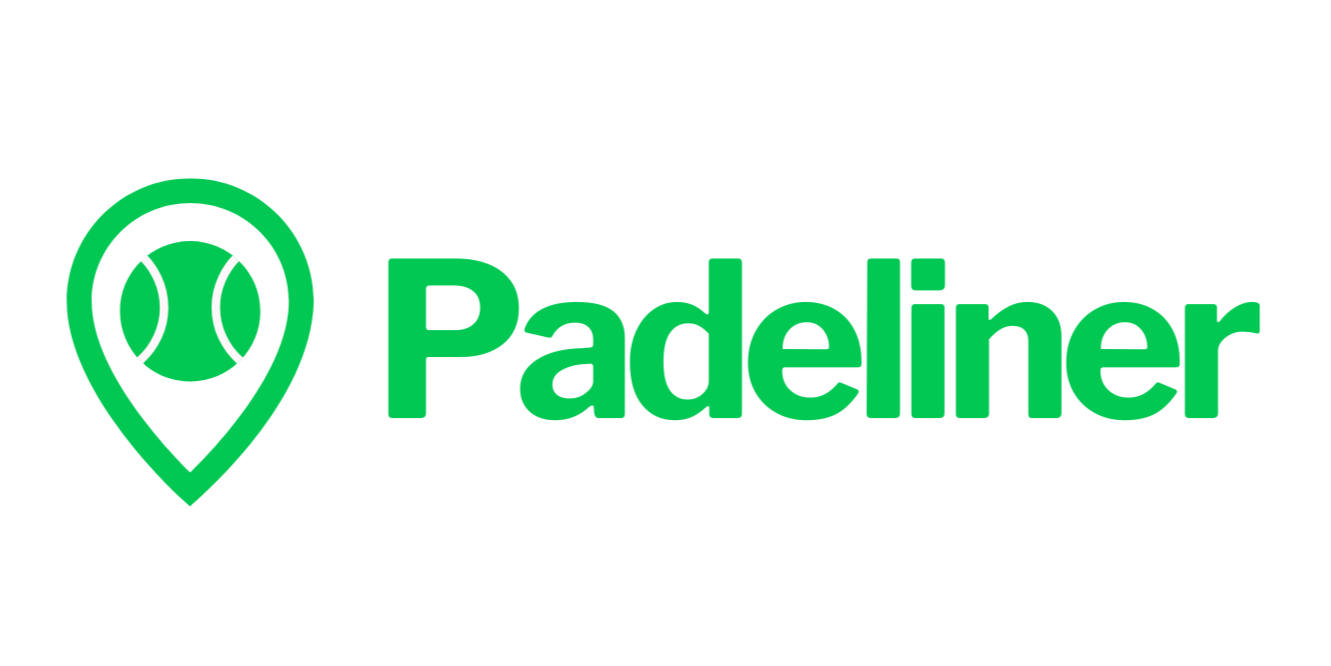
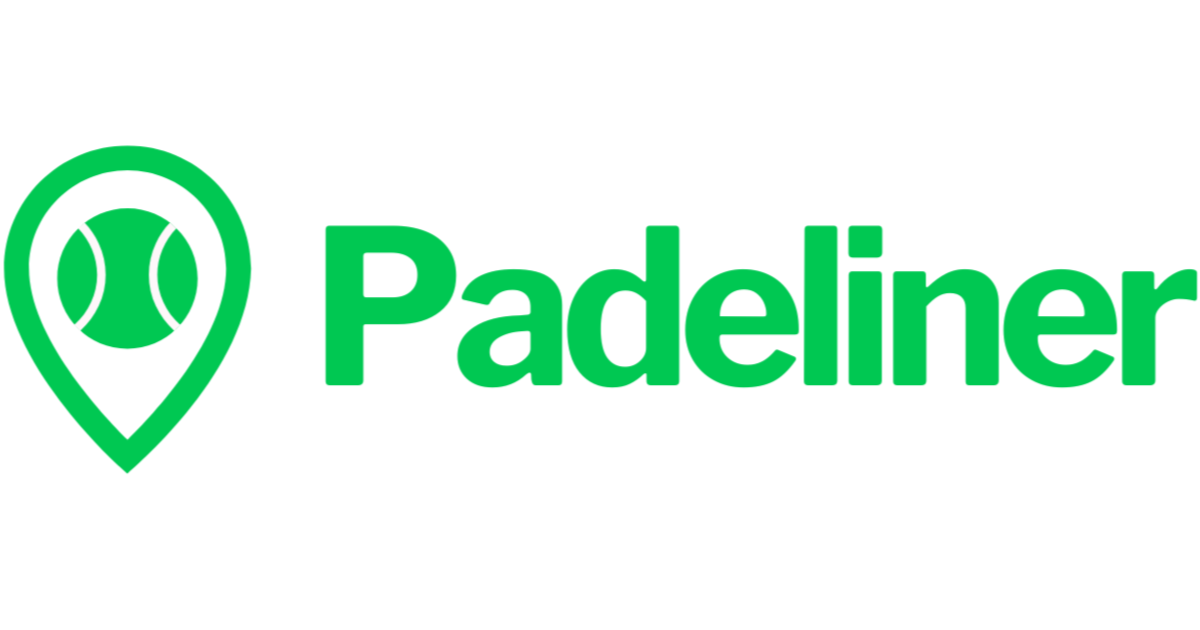
fix: Forzar recarga de Open Graph con parámetro v=2 PROBLEMA: - Redes sociales muestran imagen cuadrada - Caché de Open Graph antigua SOLUCIÓN: - Añadir ?v=2 para forzar recarga - Especificar type: 'image/png' - Actualizar Facebook/WhatsApp/Twitter IMAGEN CORRECTA:  og-image.png - 1200x630px VERIFIC

Changed region(s): [[0.0, 0.2111, 1.0, 0.754]]

diff --git a/app/layout.tsx b/app/layout.tsx
@@ -52,10 +52,11 @@ export const metadata: Metadata = {
     description: 'Conecta con los mejores profesionales del pádel. Reserva clases, encuentra clubes y compra equipo de alta calidad.',
     images: [
       {
-        url: 'https://www.padeliner.com/og-image.png',
+        url: 'https://www.padeliner.com/og-image.png?v=2',
         width: 1200,
         height: 630,
         alt: 'Padeliner - Plataforma de Pádel',
+        type: 'image/png',
       },
     ],
   },
@@ -63,7 +64,7 @@ export const metadata: Metadata = {
     card: 'summary_large_image',
     title: 'Padeliner - Plataforma Líder de Pádel en España',
     description: 'Descubre entrenadores, clubes y academias de pádel cerca de ti. Reserva, juega y mejora tu nivel.',
-    images: ['https://www.padeliner.com/og-image.png'],
+    images: ['https://www.padeliner.com/og-image.png?v=2'],
   },
   verification: {
     google: 'verification_token', // Añadir token real de Google Search Console
